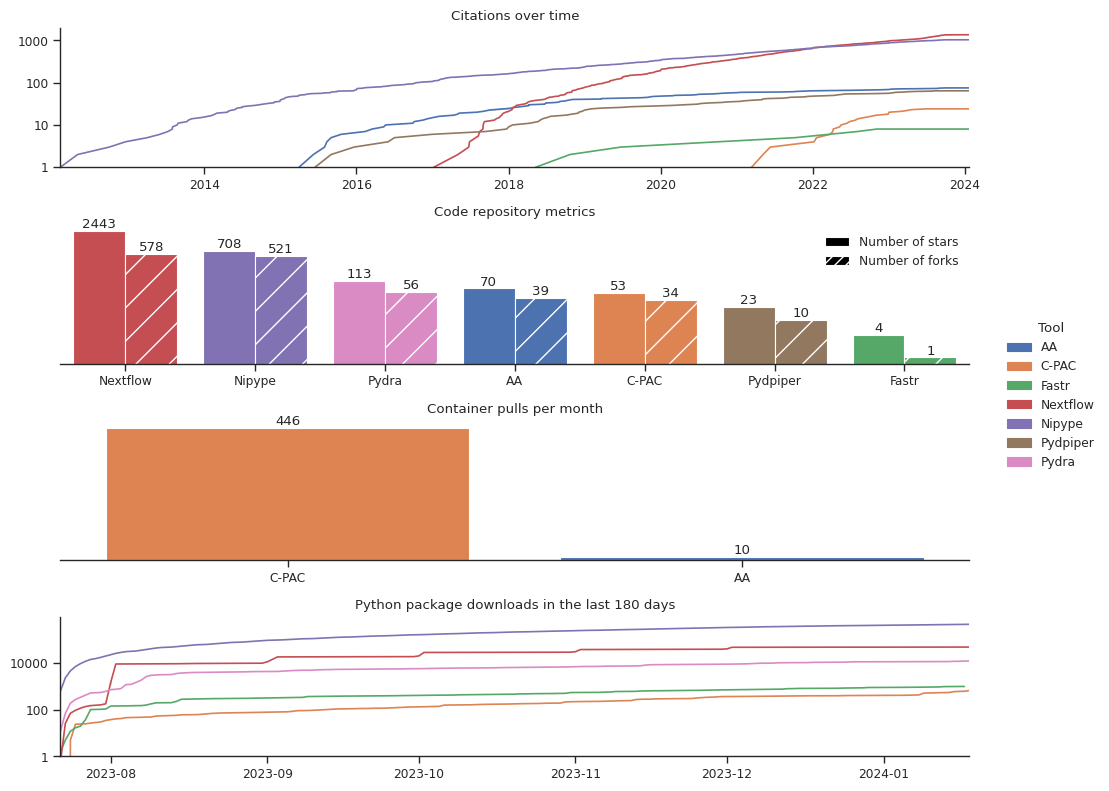
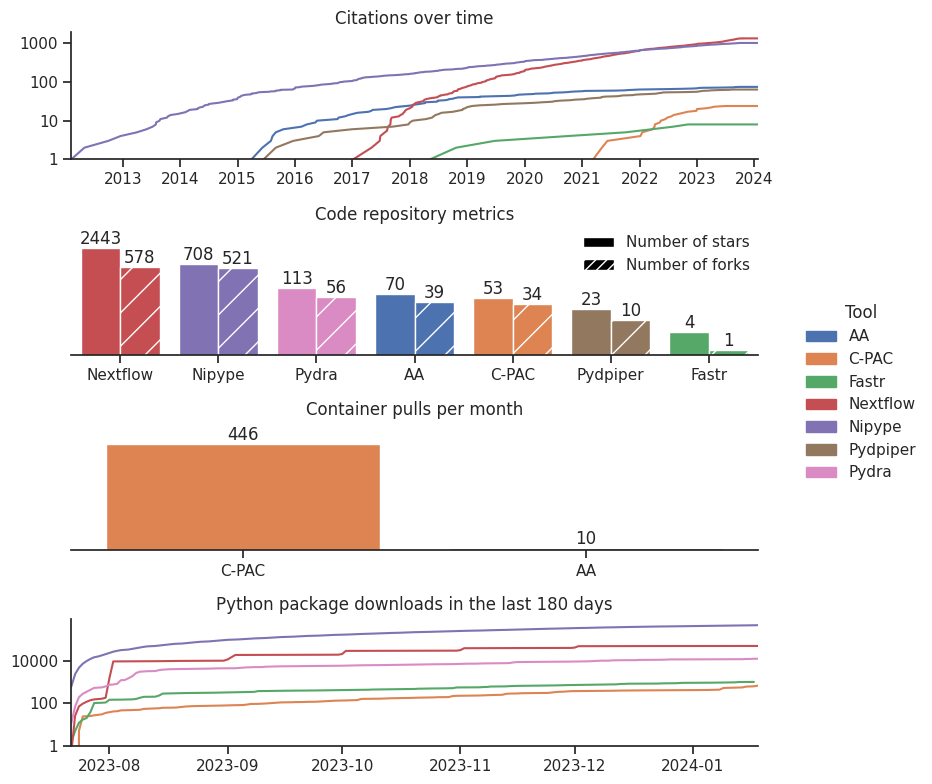
decrease figure size/increase font size

diff --git a/code/generate_figures.py b/code/generate_figures.py
@@ -8,6 +8,7 @@ from typing import Callable, Mapping, Tuple
 import matplotlib.pyplot as plt
 import pandas as pd
 import seaborn as sns
+from matplotlib.dates import MonthLocator, YearLocator
 
 from utils import (
     COL_CITATIONS,
@@ -98,6 +99,7 @@ def plot_citations(df_metrics: pd.DataFrame, ax=None, date_corrections=None, pal
     )
 
     ax.set_title('Citations over time')
+    ax.xaxis.set_major_locator(YearLocator())
 
     return ax
 
@@ -150,6 +152,9 @@ def plot_repo(df_metrics: pd.DataFrame, ax=None, hatches=None, palette=None) -> 
             for metric, hatch in zip(['stars', 'forks'], hatches)
         },
         frameon=False,
+        loc='upper right',
+        borderpad=0,
+        bbox_to_anchor=(1, 1),
     )
 
     ax.set_title('Code repository metrics')
@@ -238,6 +243,7 @@ def plot_python_timeseries(df_metrics: pd.DataFrame, ax=None, palette=None) -> p
     )
 
     ax.set_title('Python package downloads in the last 180 days')
+    ax.xaxis.set_major_locator(MonthLocator())
 
     return ax
 
@@ -289,7 +295,7 @@ def generate_figures(
         dpath_figs: Path,
         config_dict: Mapping[str, Tuple[str, Callable]] = None,
         ax_height=2,
-        fig_width=10,
+        fig_width=8,
         fpath_metrics_in: Path = None,
         fpath_metrics_out: Path = None,
         overwrite: bool = False,
@@ -303,7 +309,8 @@ def generate_figures(
     label_python_timeseries = 'python_downloads_timeseries'
     label_python_total = 'python_downloads_total'
 
-    sns.set_theme(context='paper', style='ticks')
+    sns.set_theme(style='ticks')
+    plt.rcParams['axes.titlesize'] = 12
     
     if fpath_metrics_in is not None:
         print(f'Loading metrics from {fpath_metrics_in}')

diff --git a/code/plotting.py b/code/plotting.py
@@ -1,3 +1,4 @@
+import math
 from typing import Mapping
 
 import matplotlib.patches as mpatches
@@ -33,17 +34,23 @@ def plot_timeseries(data, x, y, log_scale=True, **kwargs):
     sns.despine(ax=ax)
     return ax
 
-def plot_bar(data, x, y, log_scale=False, **kwargs):
+def plot_bar(data, x, y, log_scale=False, y_max_factor=1.2, **kwargs):
     if 'legend' not in kwargs:
         kwargs['legend'] = False
     if 'saturation' not in kwargs:
         kwargs['saturation'] = 1
     ax = sns.barplot(data=data, x=x, y=y, **kwargs)
+    y_max = max(data[y])
     for container in ax.containers:
         ax.bar_label(container, fmt='%.0f')
     if log_scale:
         ax.set_yscale('log')
         ax.minorticks_off()
+        y_max = 10 ** (math.log10(y_max)*y_max_factor)
+    else:
+        y_max *= y_max_factor
+
+    ax.set_ylim(top=y_max)
     ax.set_yticks([])
     ax.set_xlabel('')
     ax.set_ylabel('')
